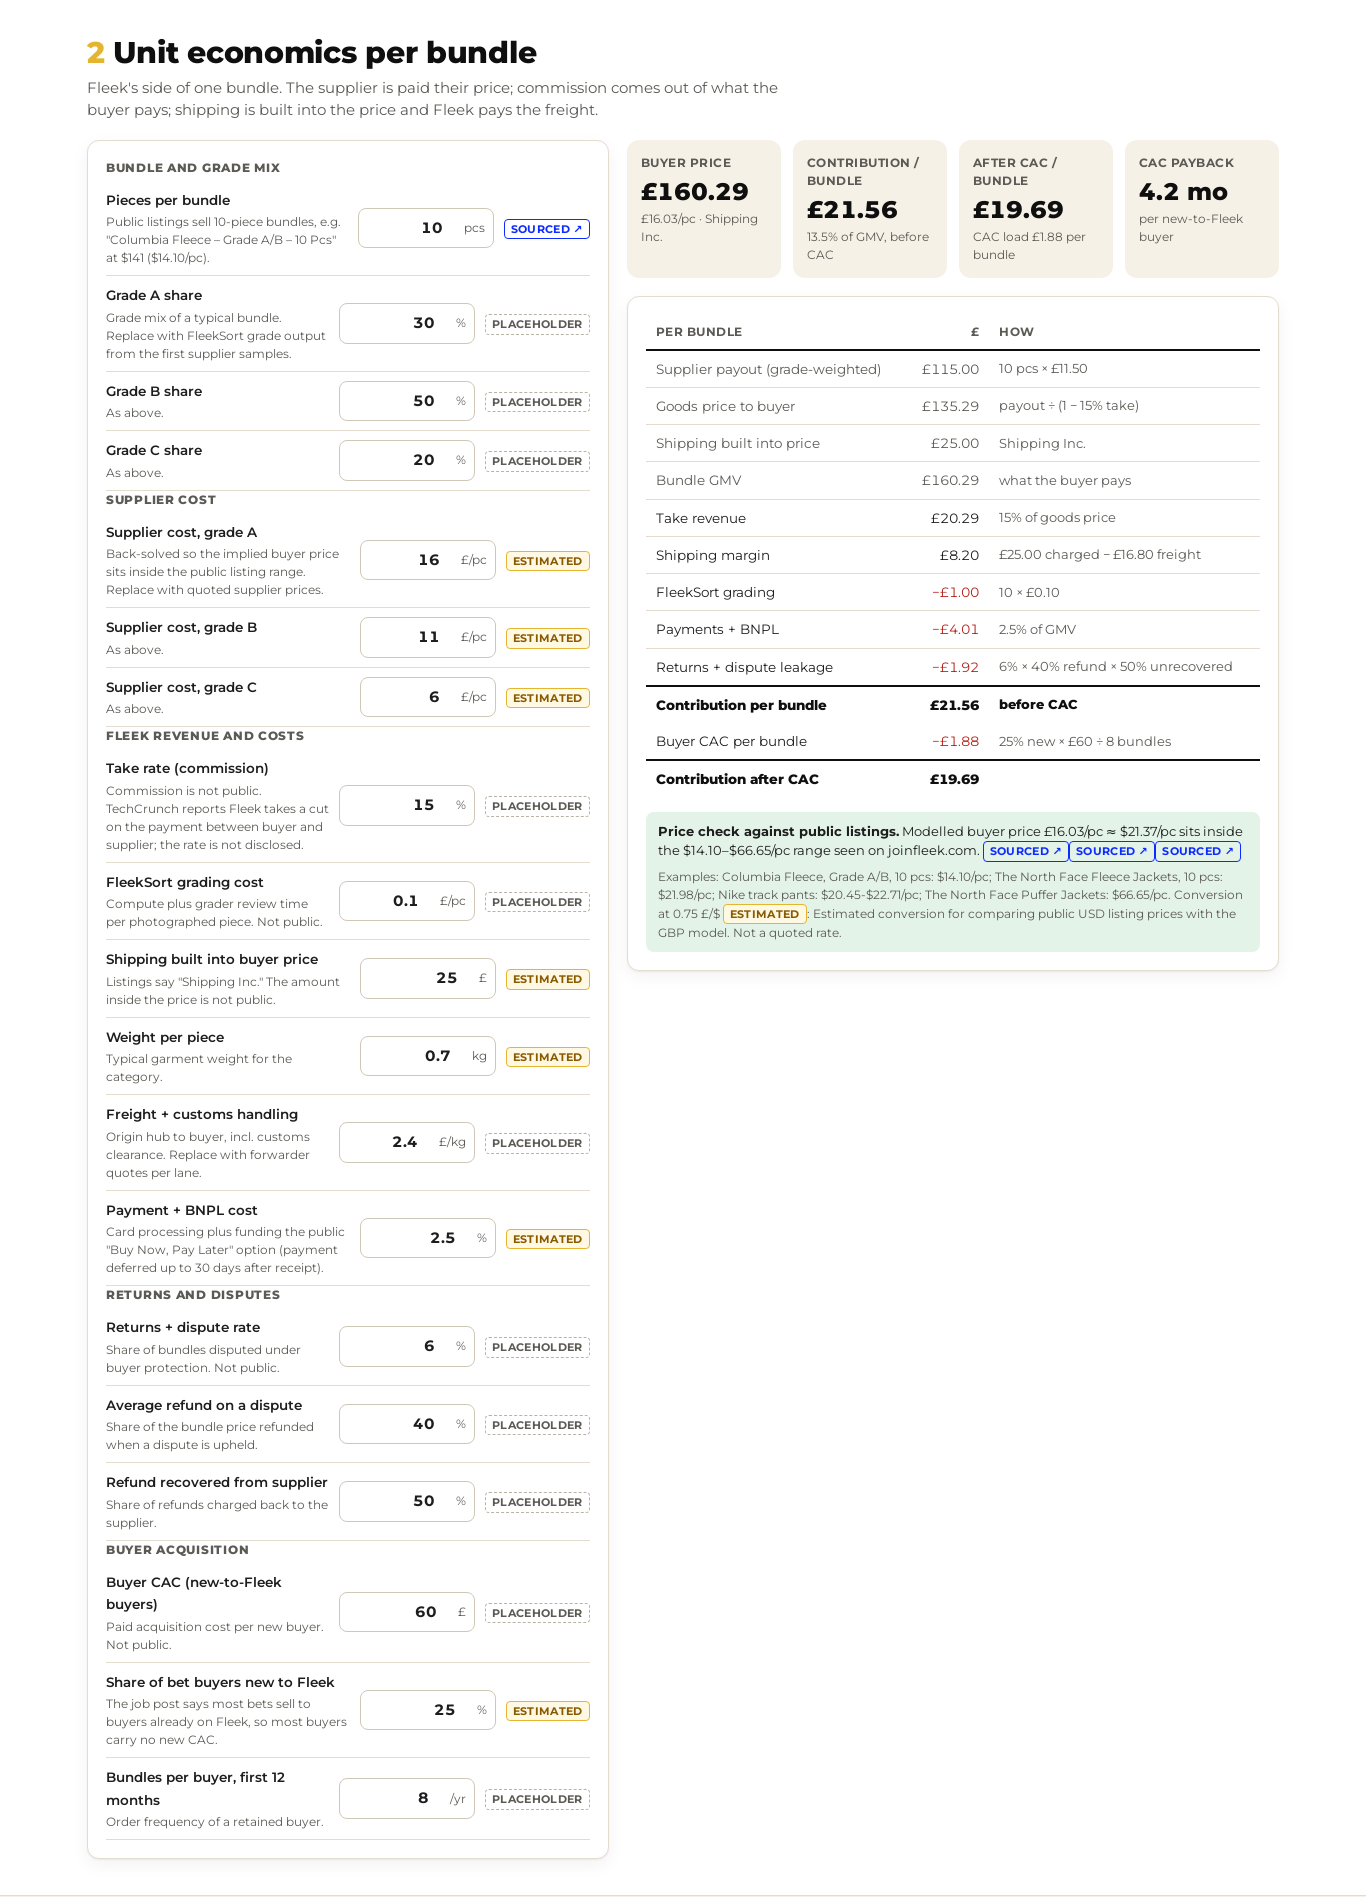
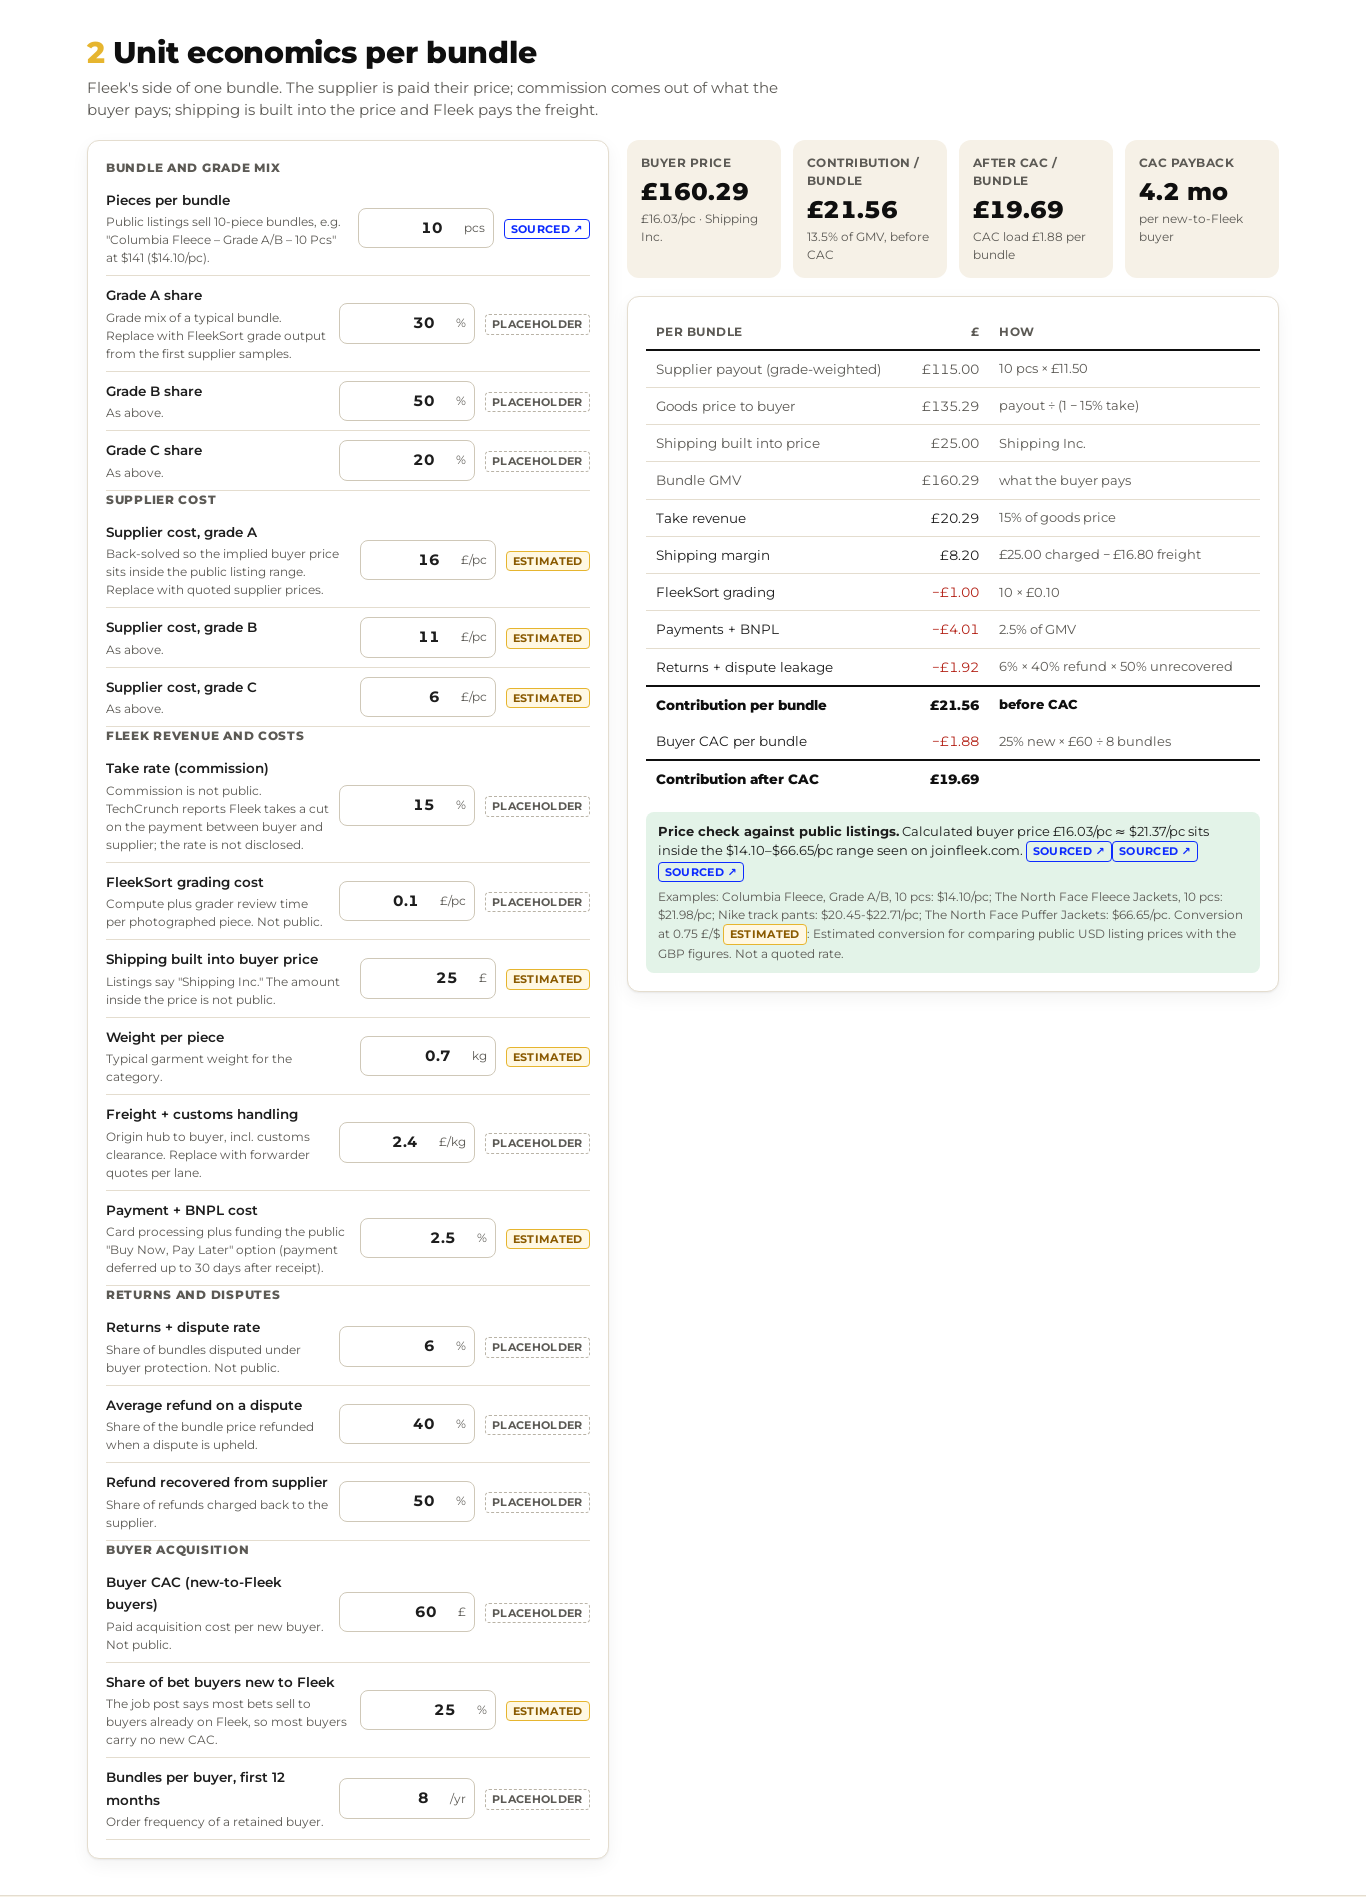
Tighten wording: describe calculations and grading without engine jargon

Changed region(s): [[0.4612, 0.4354, 0.9224, 0.5287]]

diff --git a/components/Workbench.tsx b/components/Workbench.tsx
@@ -1,7 +1,7 @@
 'use client';
 import { useEffect, useMemo, useReducer, useState } from 'react';
 import { CATEGORIES, getCategory, type CategoryBet } from '@/lib/categories';
-import { basisCounts, bundleEconomics, evaluateGate, ramp, validate, valuesOf, type AssumptionKey } from '@/lib/model';
+import { basisCounts, bundleEconomics, evaluateGate, ramp, validate, valuesOf, type AssumptionKey } from '@/lib/engine';
 import { initialState, load, reducer, save } from '@/lib/state';
 import { gbp, gbpShort } from '@/lib/format';
 import { asset } from '@/lib/asset';
@@ -162,7 +162,7 @@ function Desk({ bet, onPick }: { bet: CategoryBet; onPick: (id: CategoryBet['id'
               </div>
               {!ok && (
                 <div className="issue" role="alert">
-                  The model will not calculate until these are fixed: {issues.map((i) => i.message).join(' ')}
+                  The desk will not calculate until these are fixed: {issues.map((i) => i.message).join(' ')}
                 </div>
               )}
               <div className="grid-econ">
@@ -254,7 +254,7 @@ function Desk({ bet, onPick }: { bet: CategoryBet; onPick: (id: CategoryBet['id'
               <Scorecard metrics={s.metrics} gate={gate} onChange={(id, field, value) => dispatch({ type: 'setMetric', id, field, value })} />
               {ok && (
                 <p className="small muted" style={{ marginTop: 10 }}>
-                  For reference, the model above predicts {gbp(e.contribution)} contribution per bundle at a {v.disputeRate}% dispute rate. The gate reads observed pilot values, not the model.
+                  For reference, the bundle P&L above predicts {gbp(e.contribution)} contribution per bundle at a {v.disputeRate}% dispute rate. The gate reads observed pilot values, not the forecast.
                 </p>
               )}
             </div>

diff --git a/components/Economics.tsx b/components/Economics.tsx
@@ -1,5 +1,5 @@
 'use client';
-import type { BundleEconomics, Values } from '@/lib/model';
+import type { BundleEconomics, Values } from '@/lib/engine';
 import type { ListingAnchor } from '@/lib/categories';
 import { USD_TO_GBP, USD_TO_GBP_NOTE } from '@/lib/sources';
 import { gbp, pct } from '@/lib/format';
@@ -71,7 +71,7 @@ export function AnchorCheck({ e, anchor }: { e: BundleEconomics; anchor: Listing
   const inside = ppcUsd >= anchor.minUsd && ppcUsd <= anchor.maxUsd;
   return (
     <div className={`anchor-check ${inside ? 'anchor-in' : 'anchor-out'}`}>
-      <strong>Price check against public listings.</strong> Modelled buyer price {gbp(e.buyerPricePerPiece)}/pc ≈ ${ppcUsd.toFixed(2)}/pc{' '}
+      <strong>Price check against public listings.</strong> Calculated buyer price {gbp(e.buyerPricePerPiece)}/pc ≈ ${ppcUsd.toFixed(2)}/pc{' '}
       {inside ? 'sits inside' : 'sits outside'} the ${anchor.minUsd.toFixed(2)}–${anchor.maxUsd.toFixed(2)}/pc range seen on joinfleek.com.{' '}
       {anchor.sources.map((s) => (
         <BasisChip key={s.url} basis="sourced" source={s} />

diff --git a/lib/engine.ts b/lib/engine.ts
@@ -64,13 +64,13 @@ export function valuesOf(a: Assumptions): Values {
   return out;
 }
 
-export interface ModelIssue {
+export interface InputIssue {
   key: AssumptionKey | 'gradeMix';
   message: string;
 }
 
-export function validate(v: Values): ModelIssue[] {
-  const issues: ModelIssue[] = [];
+export function validate(v: Values): InputIssue[] {
+  const issues: InputIssue[] = [];
   const mix = v.gradeA + v.gradeB + v.gradeC;
   if (Math.abs(mix - 100) > 0.01) issues.push({ key: 'gradeMix', message: `Grade mix sums to ${round(mix, 1)}%, not 100%.` });
   for (const k of ['gradeA', 'gradeB', 'gradeC', 'takeRate', 'paymentCostPct', 'disputeRate', 'refundShare', 'supplierRecovery', 'newBuyerShare', 'sellThrough', 'buyerRetention'] as const) {

diff --git a/lib/sources.ts b/lib/sources.ts
@@ -1,4 +1,4 @@
-import type { SourceRef } from './model';
+import type { SourceRef } from './engine';
 
 /** Public sources only. Accessed 6 October 2026. */
 export const SOURCES = {
@@ -20,4 +20,4 @@ export const SOURCES = {
 
 /** Listing prices on joinfleek.com are shown in USD to this visitor; the desk works in GBP. */
 export const USD_TO_GBP = 0.75;
-export const USD_TO_GBP_NOTE = 'Estimated conversion for comparing public USD listing prices with the GBP model. Not a quoted rate.';
+export const USD_TO_GBP_NOTE = 'Estimated conversion for comparing public USD listing prices with the GBP figures. Not a quoted rate.';

diff --git a/components/Ramp.tsx b/components/Ramp.tsx
@@ -1,7 +1,7 @@
 'use client';
 import { useMemo, useState } from 'react';
-import type { AssumptionKey, Assumptions, Ramp as RampT, Values } from '@/lib/model';
-import { bundleEconomics, oneWaySensitivity, ramp, twoWayGrid } from '@/lib/model';
+import type { AssumptionKey, Assumptions, Ramp as RampT, Values } from '@/lib/engine';
+import { bundleEconomics, oneWaySensitivity, ramp, twoWayGrid } from '@/lib/engine';
 import { gbp, gbpShort, num } from '@/lib/format';
 
 export function RampChart({ r, target }: { r: RampT; target: number }) {

diff --git a/components/Memo.tsx b/components/Memo.tsx
@@ -1,6 +1,6 @@
 import type { CategoryBet } from '@/lib/categories';
-import type { BundleEconomics, GateResult, Ramp, Values } from '@/lib/model';
-import { basisCounts, fmtMetric } from '@/lib/model';
+import type { BundleEconomics, GateResult, Ramp, Values } from '@/lib/engine';
+import { basisCounts, fmtMetric } from '@/lib/engine';
 import type { BetState } from '@/lib/state';
 import { gbp, gbpShort, pct } from '@/lib/format';
 import { asset } from '@/lib/asset';

diff --git a/components/Scorecard.tsx b/components/Scorecard.tsx
@@ -1,6 +1,6 @@
 'use client';
-import type { GateMetric, GateResult, MetricId } from '@/lib/model';
-import { fmtMetric } from '@/lib/model';
+import type { GateMetric, GateResult, MetricId } from '@/lib/engine';
+import { fmtMetric } from '@/lib/engine';
 import { BasisChip } from './Basis';
 
 const STATUS_LABEL = { scale: 'Scale', hold: 'Hold', kill: 'Kill', insufficient: 'Sample too small', 'no-data': 'Not measured', invalid: 'Invalid thresholds' } as const;

diff --git a/tests/economics.test.ts b/tests/economics.test.ts
@@ -1,5 +1,5 @@
 import { describe, expect, it } from 'vitest';
-import { bundleEconomics, evaluateGate, oneWaySensitivity, ramp, twoWayGrid, validate, valuesOf, type GateMetric, type Values } from '@/lib/model';
+import { bundleEconomics, evaluateGate, oneWaySensitivity, ramp, twoWayGrid, validate, valuesOf, type GateMetric, type Values } from '@/lib/engine';
 import { CATEGORIES } from '@/lib/categories';
 import { initialState, reducer } from '@/lib/state';
 

diff --git a/components/AssumptionEditor.tsx b/components/AssumptionEditor.tsx
@@ -1,5 +1,5 @@
 'use client';
-import type { Assumption, AssumptionKey, Assumptions } from '@/lib/model';
+import type { Assumption, AssumptionKey, Assumptions } from '@/lib/engine';
 import { BasisChip } from './Basis';
 
 const SUFFIX: Record<string, string> = { '%': '%', '£': '£', '£/pc': '£/pc', '£/kg': '£/kg', 'kg/pc': 'kg', pcs: 'pcs', count: '', 'per month': '/mo', 'per year': '/yr', '£/yr': '£/yr' };

diff --git a/lib/categories.ts b/lib/categories.ts
@@ -1,4 +1,4 @@
-import type { Assumption, AssumptionKey, Assumptions, Basis, GateMetric, SourceRef } from './model';
+import type { Assumption, AssumptionKey, Assumptions, Basis, GateMetric, SourceRef } from './engine';
 import { SOURCES } from './sources';
 
 export interface ThesisPoint {

diff --git a/lib/state.ts b/lib/state.ts
@@ -1,4 +1,4 @@
-import type { AssumptionKey, Assumptions, GateMetric, MetricId } from './model';
+import type { AssumptionKey, Assumptions, GateMetric, MetricId } from './engine';
 import type { CategoryBet, RiskItem } from './categories';
 import { CATEGORIES } from './categories';
 

diff --git a/components/Basis.tsx b/components/Basis.tsx
@@ -1,4 +1,4 @@
-import type { Basis, SourceRef } from '@/lib/model';
+import type { Basis, SourceRef } from '@/lib/engine';
 
 const LABEL: Record<Basis, string> = { sourced: 'Sourced', estimated: 'Estimated', placeholder: 'Placeholder' };
 
